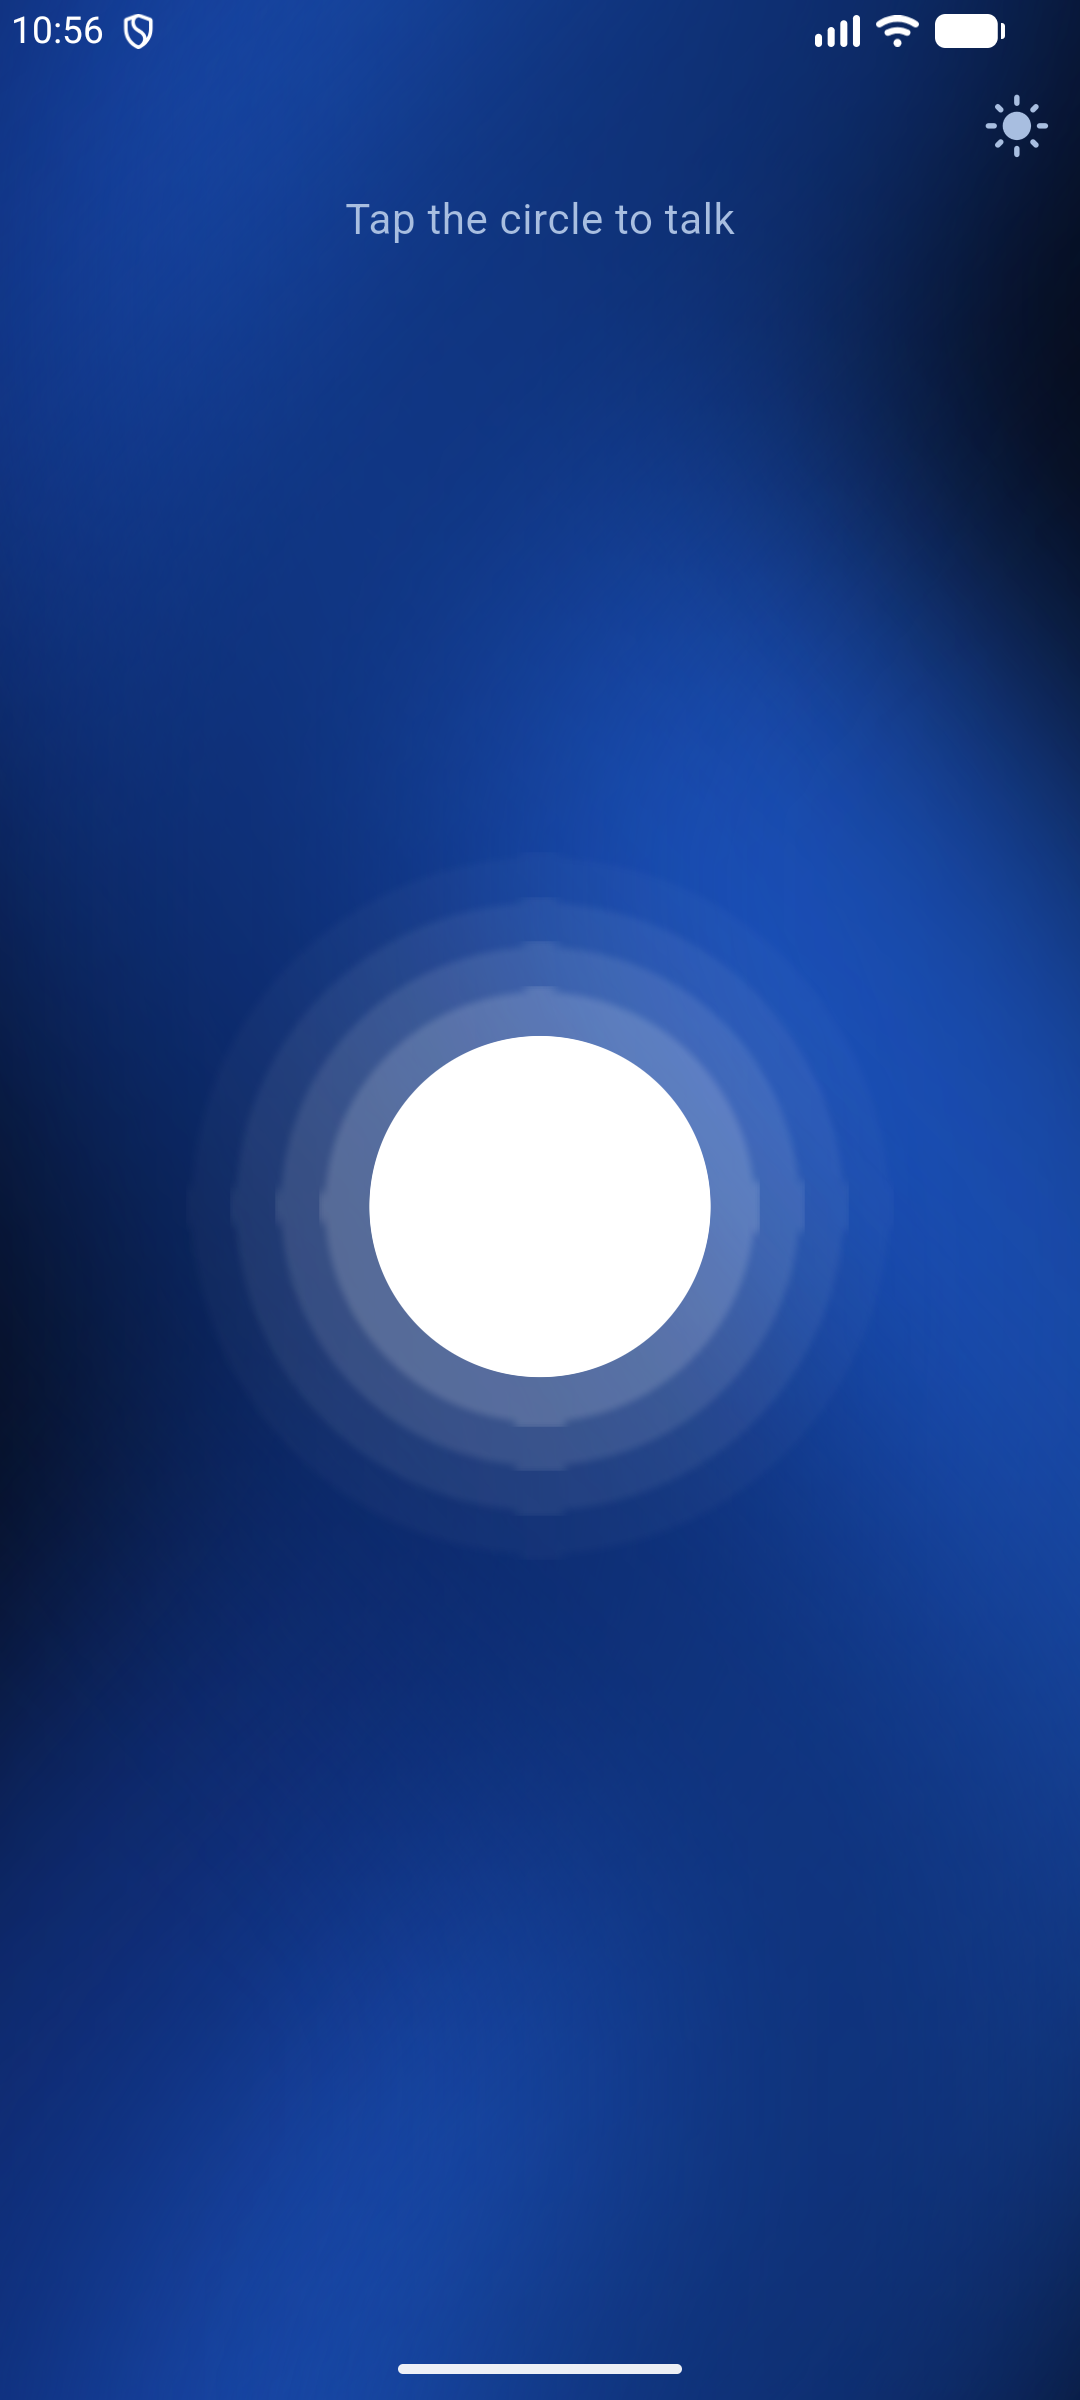
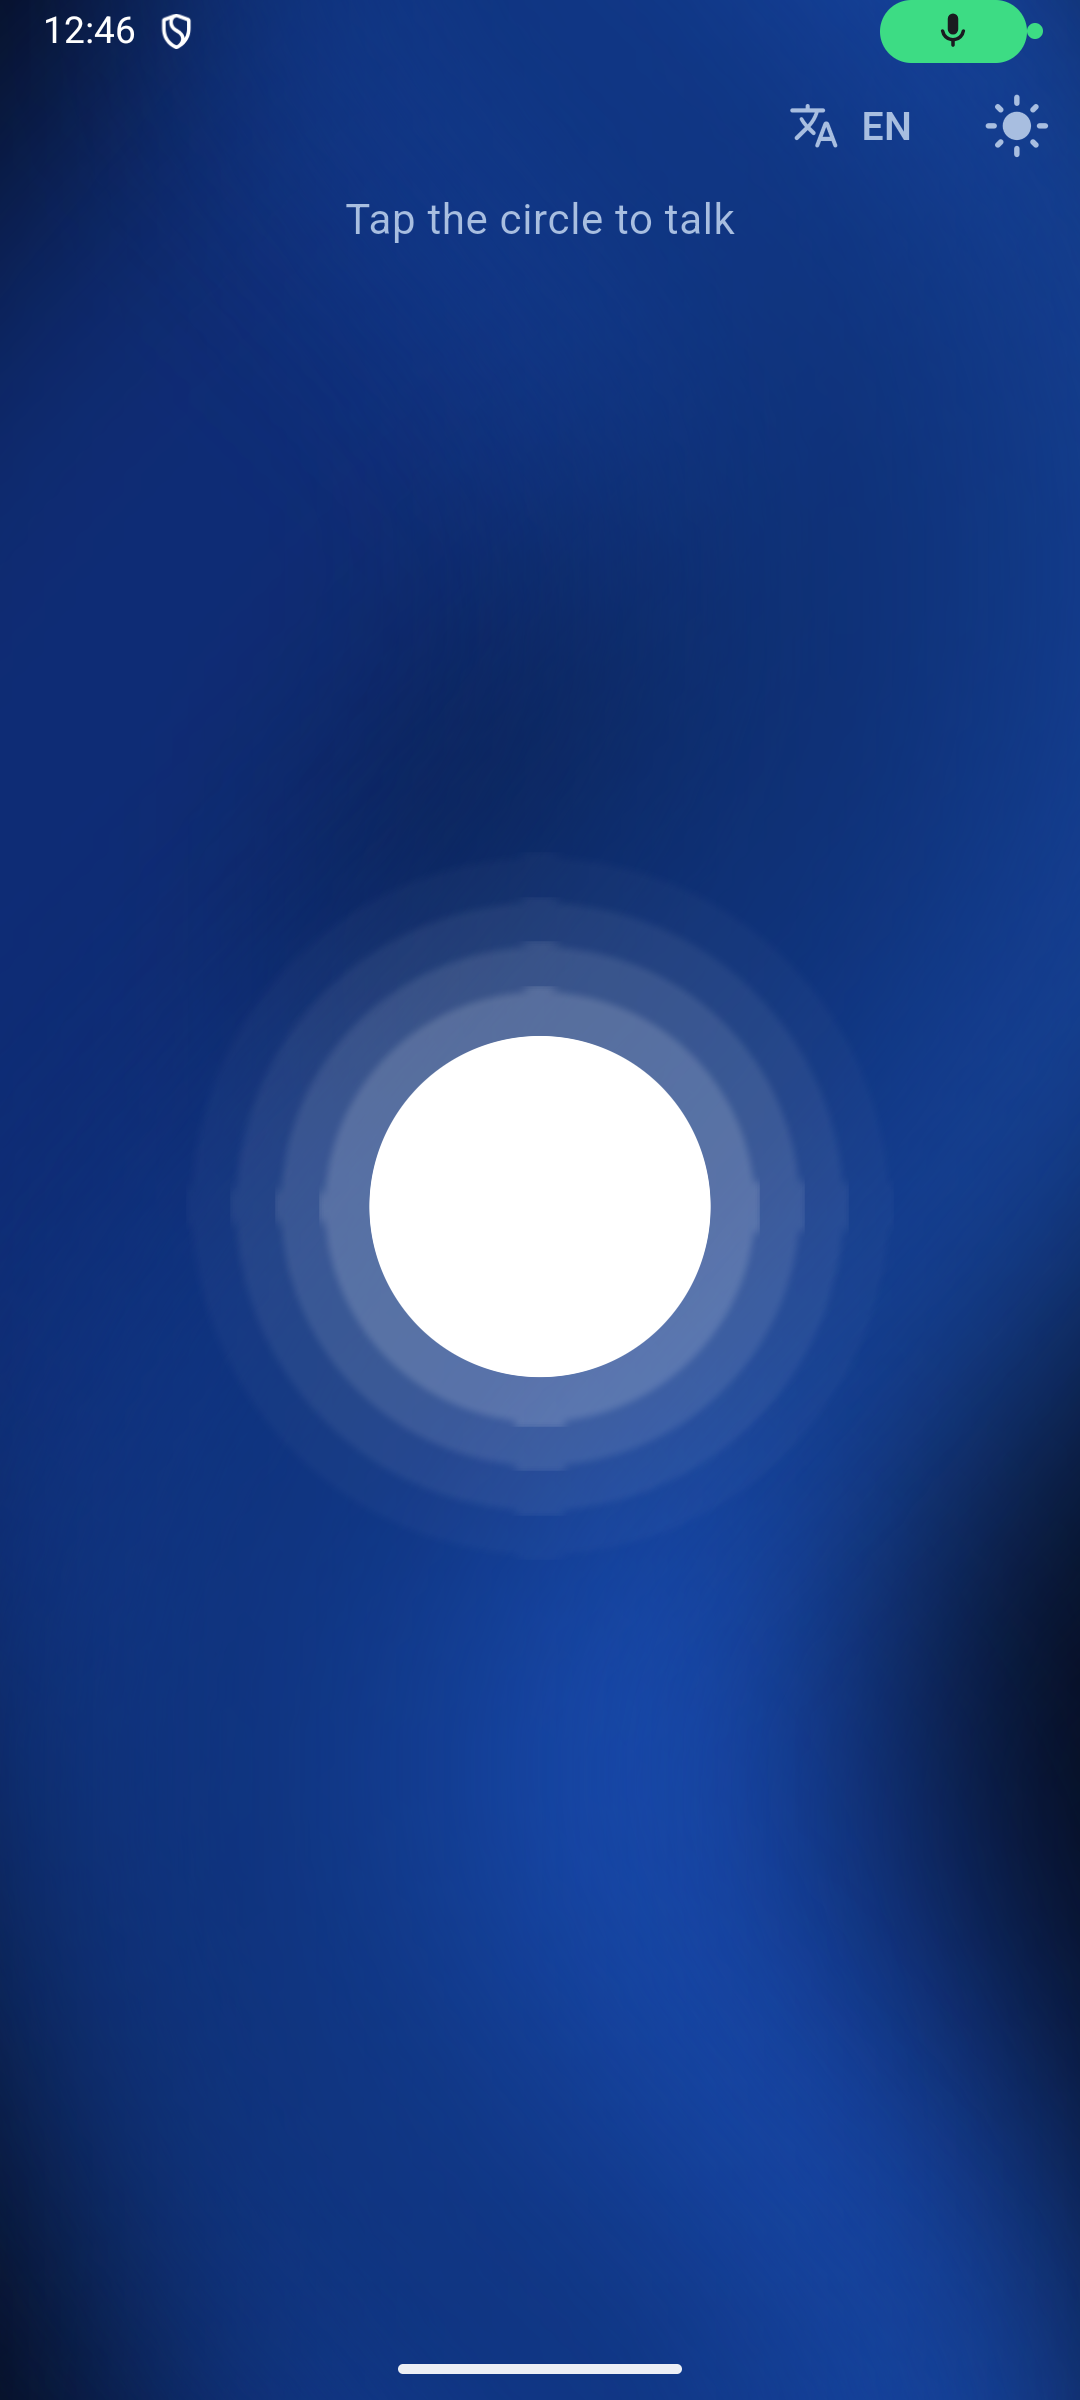
Update README

diff --git a/README.md b/README.md
@@ -15,9 +15,9 @@ This is the first part of the graduation project. It is a self-contained screen,
 
 ## Screenshots
 
-| Greeting | Home (light) | Home (dark) | Listening |
+| Greeting | Home (light) | Home (dark) | Listening | Speech-to-Text
 | --- | --- | --- | --- |
-| <img src="screenshots/splash.png" width="180"> | <img src="screenshots/home-light.png" width="180"> | <img src="screenshots/home-dark.png" width="180"> | <img src="screenshots/listening.png" width="180"> |
+| <img src="screenshots/splash.png" width="180"> | <img src="screenshots/home-light.png" width="180"> | <img src="screenshots/home-dark.png" width="180"> | <img src="screenshots/listening.png" width="180"> | <img src="screenshots/speech-to-text.png" width="180"> |
 
 ## Built with
 
